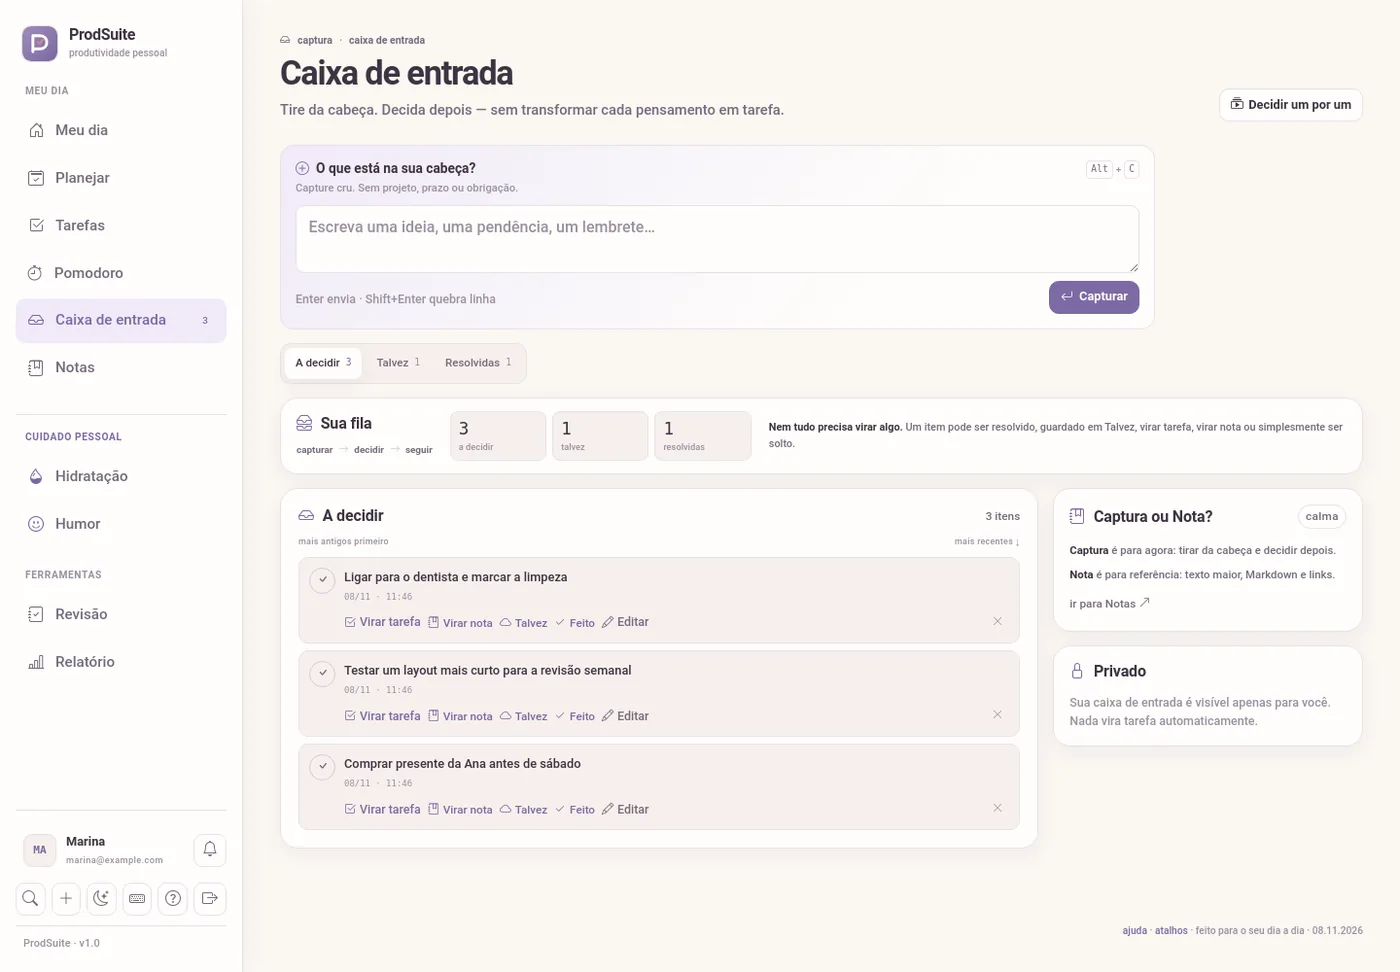
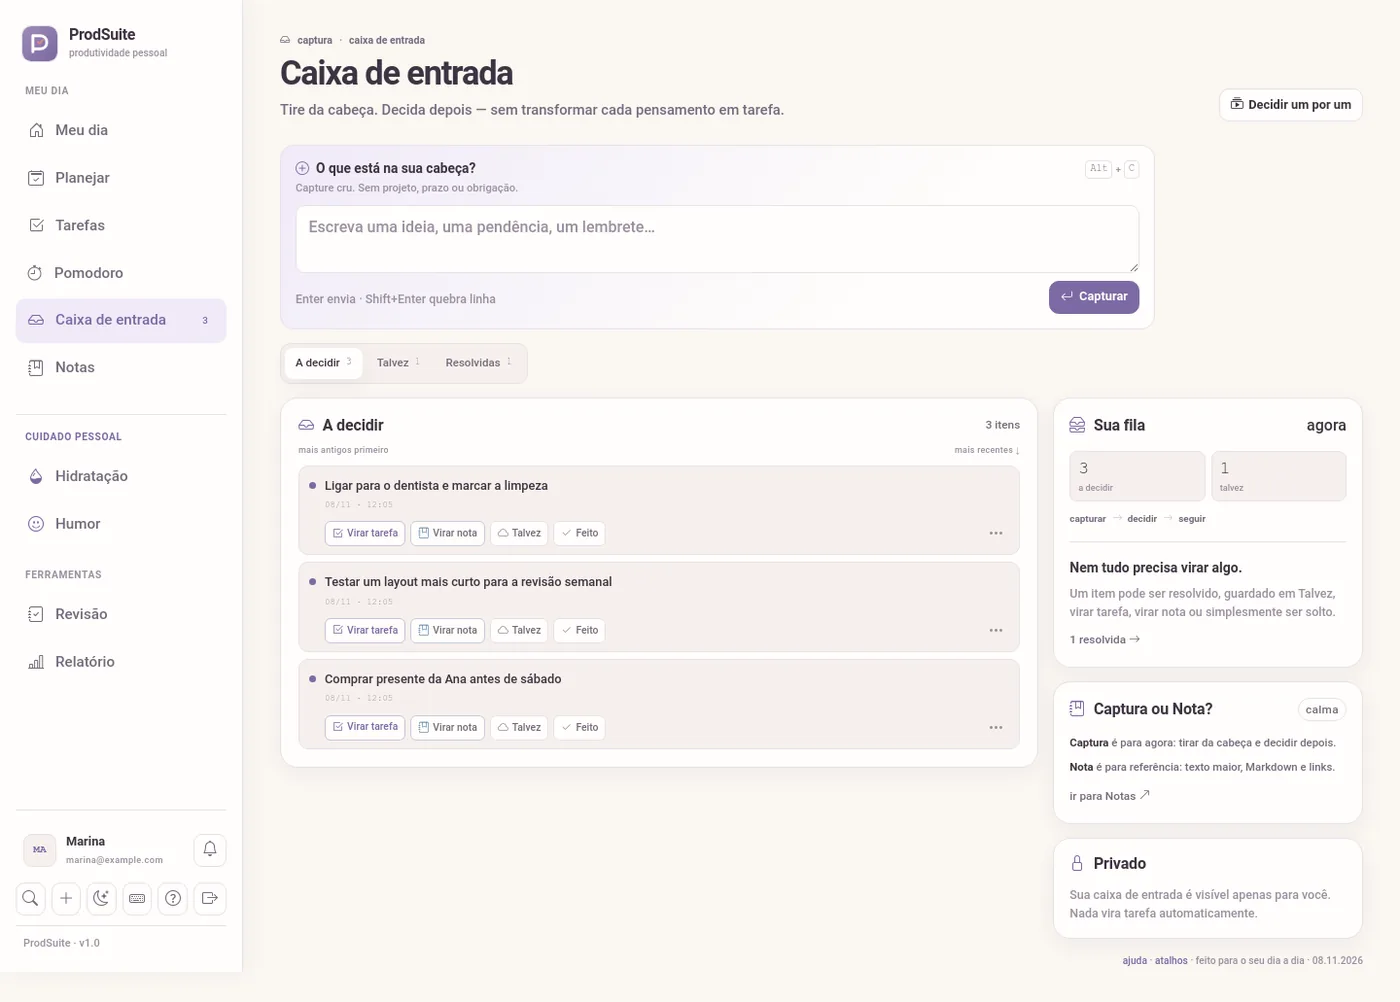
style: alinha caixa de entrada ao conceito 1

diff --git a/templates/scratchpad.html b/templates/scratchpad.html
@@ -46,18 +46,7 @@
   <a class="annotation-tab {{ 'is-active' if view == 'resolvidas' }}" href="{{ url_for('scratchpad.index', ver='resolvidas') }}">Resolvidas <b>{{ counts.done }}</b></a>
 </div>
 
-<section class="bento-card inbox-queue" aria-label="Resumo da fila">
-  <div class="inbox-queue-title">
-    <h2 class="card-title"><i class="bi bi-inboxes"></i> Sua fila</h2>
-    <div class="inbox-flow-guide"><b>capturar</b><i class="bi bi-arrow-right"></i><b>decidir</b><i class="bi bi-arrow-right"></i><b>seguir</b></div>
-  </div>
-  <div class="inbox-stats">
-    <div><strong>{{ counts.open }}</strong><span>a decidir</span></div>
-    <div><strong>{{ counts.someday }}</strong><span>talvez</span></div>
-    <div><strong>{{ counts.done }}</strong><span>resolvidas</span></div>
-  </div>
-  <p class="inbox-queue-copy"><strong>Nem tudo precisa virar algo.</strong> Um item pode ser resolvido, guardado em Talvez, virar tarefa, virar nota ou simplesmente ser solto.</p>
-</section>
+
 
 <div class="annotation-layout">
   <section class="bento-card annotation-flow">
@@ -77,49 +66,45 @@
     <div class="annotation-list inbox-list">
       {% for item in items %}
       <article class="annotation-item inbox-item {{ 'is-done' if item.is_completed }} {{ 'is-someday' if item.is_someday }}" id="item-{{ item.id }}">
-        <form method="post" action="{{ url_for('scratchpad.complete', item_id=item.id) }}" class="annotation-check-form">
-          {{ csrf() }}
-          <button class="annotation-check {{ 'is-done' if item.is_completed }}" type="submit"
-                  aria-label="{{ 'Reabrir item' if item.is_completed else 'Resolver item' }}"
-                  title="{{ 'Reabrir item' if item.is_completed else 'Resolver item' }}">
-            <i class="bi {{ 'bi-check2' if item.is_completed else 'bi-check' }}" aria-hidden="true"></i>
-          </button>
-        </form>
+        <span class="inbox-dot {{ 'is-done' if item.is_completed }}" aria-hidden="true"></span>
         <div class="annotation-main">
           <p class="annotation-text">{{ item.content }}</p>
           <div class="annotation-meta">
             <span>{{ item.created_at|localtime('%d/%m · %H:%M') }}</span>
             {% if item.is_completed %}<span class="annotation-done-label"><i class="bi bi-check2"></i> resolvida</span>{% endif %}
             {% if item.is_someday %}<span class="inbox-state"><i class="bi bi-cloud"></i> talvez</span>{% endif %}
-            {% if not item.is_completed and item.someday_at %}<!-- estado preservado ao reabrir -->{% endif %}
           </div>
-          <div class="annotation-actions">
+          <div class="inbox-triage">
             {% if item.is_completed %}
             <form method="post" action="{{ url_for('scratchpad.complete', item_id=item.id) }}">
               {{ csrf() }}
-              <button class="annotation-action" type="submit"><i class="bi bi-arrow-counterclockwise"></i> Reabrir</button>
+              <button class="inbox-triage-btn" type="submit"><i class="bi bi-arrow-counterclockwise"></i> Reabrir</button>
             </form>
             {% else %}
-            <a class="annotation-action" href="{{ url_for('scratchpad.detail', item_id=item.id) }}"><i class="bi bi-check2-square"></i> Virar tarefa</a>
+            <a class="inbox-triage-btn task" href="{{ url_for('scratchpad.detail', item_id=item.id) }}"><i class="bi bi-check2-square"></i> Virar tarefa</a>
             <form method="post" action="{{ url_for('scratchpad.convert_note', item_id=item.id) }}">
               {{ csrf() }}
-              <button class="annotation-action" type="submit"><i class="bi bi-journal-bookmark"></i> Virar nota</button>
+              <button class="inbox-triage-btn note" type="submit"><i class="bi bi-journal-bookmark"></i> Virar nota</button>
             </form>
             <form method="post" action="{{ url_for('scratchpad.someday', item_id=item.id) }}">
               {{ csrf() }}
-              <button class="annotation-action" type="submit"><i class="bi bi-cloud"></i> {{ 'Voltar para a fila' if item.is_someday else 'Talvez' }}</button>
+              <button class="inbox-triage-btn" type="submit"><i class="bi bi-cloud"></i> {{ 'Voltar' if item.is_someday else 'Talvez' }}</button>
             </form>
             <form method="post" action="{{ url_for('scratchpad.complete', item_id=item.id) }}">
               {{ csrf() }}
-              <button class="annotation-action" type="submit"><i class="bi bi-check2"></i> Feito</button>
+              <button class="inbox-triage-btn" type="submit"><i class="bi bi-check2"></i> Feito</button>
             </form>
             {% endif %}
-            <a class="annotation-action annotation-edit" href="{{ url_for('scratchpad.detail', item_id=item.id) }}"><i class="bi bi-pencil"></i> Editar</a>
-            <form method="post" action="{{ url_for('scratchpad.delete', item_id=item.id) }}" class="annotation-dismiss-form"
-                  data-confirm="Soltar este item? Ele não vai para Tarefas nem para Notas.">
-              {{ csrf() }}
-              <button class="annotation-dismiss" type="submit" aria-label="Soltar item" title="Soltar item"><i class="bi bi-x-lg"></i></button>
-            </form>
+            <details class="inbox-more">
+              <summary aria-label="Mais ações do item" title="Mais ações"><i class="bi bi-three-dots"></i></summary>
+              <div class="inbox-more-menu">
+                <a href="{{ url_for('scratchpad.detail', item_id=item.id) }}"><i class="bi bi-pencil"></i> Editar</a>
+                <form method="post" action="{{ url_for('scratchpad.delete', item_id=item.id) }}" data-confirm="Soltar este item? Ele não vai para Tarefas nem para Notas.">
+                  {{ csrf() }}
+                  <button type="submit"><i class="bi bi-x-lg"></i> Soltar</button>
+                </form>
+              </div>
+            </details>
           </div>
         </div>
       </article>
@@ -139,6 +124,19 @@
   </section>
 
   <aside class="annotation-side inbox-side">
+    <section class="bento-card pad inbox-queue-side">
+      <div class="card-head"><h2 class="card-title"><i class="bi bi-inboxes"></i> Sua fila</h2><span class="link">agora</span></div>
+      <div class="inbox-stats inbox-stats-two">
+        <div><strong>{{ counts.open }}</strong><span>a decidir</span></div>
+        <div><strong>{{ counts.someday }}</strong><span>talvez</span></div>
+      </div>
+      <div class="inbox-flow-guide"><b>capturar</b><i class="bi bi-arrow-right"></i><b>decidir</b><i class="bi bi-arrow-right"></i><b>seguir</b></div>
+      <div class="divider"></div>
+      <div class="small" style="color:var(--text);font-weight:650">Nem tudo precisa virar algo.</div>
+      <div class="form-hint" style="line-height:1.55;margin-top:5px">Um item pode ser resolvido, guardado em Talvez, virar tarefa, virar nota ou simplesmente ser solto.</div>
+      {% if counts.done %}<a class="card-link" href="{{ url_for('scratchpad.index', ver='resolvidas') }}">{{ counts.done }} resolvida{{ 's' if counts.done != 1 }} <i class="bi bi-arrow-right"></i></a>{% endif %}
+    </section>
+
     <section class="bento-card pad annotation-distinction">
       <div class="card-head"><h2 class="card-title"><i class="bi bi-journal-bookmark"></i> Captura ou Nota?</h2><span class="chip">calma</span></div>
       <p><strong>Captura</strong> é para agora: tirar da cabeça e decidir depois.</p>

diff --git a/static/css/theme.css b/static/css/theme.css
@@ -10789,64 +10789,162 @@ button.annotation-action:hover {
   margin: 0;
 }
 
-/* Resumo da fila acima da lista. */
-.inbox-queue {
+/* Conceito 1: triagem em pills e fila como card lateral. */
+.inbox-dot {
+  width: 7px;
+  height: 7px;
+  flex: 0 0 7px;
+  margin-top: 6px;
+  border-radius: 50%;
+  background: var(--emerald);
+}
+
+.inbox-dot.is-done {
+  background: var(--green);
+}
+
+.inbox-triage {
   display: flex;
+  flex-wrap: wrap;
   align-items: center;
-  gap: 18px;
-  margin-bottom: 14px;
-  padding: 13px 16px;
+  gap: 5px;
+  margin-top: 8px;
 }
 
-.inbox-queue-title {
-  flex: 0 0 auto;
-  min-width: 128px;
-}
-
-.inbox-queue-title .card-title {
-  margin: 0 0 5px;
-}
-
-.inbox-queue .inbox-stats {
-  flex: 0 1 310px;
-}
-
-.inbox-queue-copy {
-  flex: 1 1 260px;
+.inbox-triage form {
   margin: 0;
+}
+
+.inbox-triage-btn {
+  display: inline-flex;
+  min-height: 26px;
+  align-items: center;
+  gap: 4px;
+  padding: 3px 7px;
+  border: 1px solid var(--line);
+  border-radius: 6px;
+  background: var(--surface);
   color: var(--muted);
-  font-size: .68rem;
-  line-height: 1.5;
+  font: inherit;
+  font-size: .65rem;
+  line-height: 1.2;
+  text-decoration: none;
+  cursor: pointer;
 }
 
-.inbox-queue-copy strong {
+.inbox-triage-btn i {
+  color: var(--dim);
+  font-size: .7rem;
+}
+
+.inbox-triage-btn:hover,
+.inbox-triage-btn:focus-visible {
+  border-color: var(--line-strong);
   color: var(--text);
-  font-weight: 650;
 }
 
-@media (max-width: 900px) {
-  .inbox-queue {
-    flex-wrap: wrap;
-    gap: 10px 16px;
-  }
+.inbox-triage-btn.task {
+  border-color: color-mix(in srgb, var(--emerald) 26%, var(--line));
+  color: var(--emerald);
+}
 
-  .inbox-queue-title {
-    display: flex;
-    flex: 1 1 100%;
-    align-items: center;
-    justify-content: space-between;
-    gap: 10px;
-  }
+.inbox-triage-btn.task i {
+  color: var(--emerald);
+}
 
-  .inbox-queue-title .card-title {
-    margin: 0;
-  }
+.inbox-triage-btn.note {
+  border-color: color-mix(in srgb, var(--cyan) 26%, var(--line));
+}
 
-  .inbox-queue .inbox-stats {
-    flex: 1 1 220px;
-  }
+.inbox-triage-btn.note i {
+  color: var(--cyan);
+}
 
-  .inbox-queue-copy {
-    flex: 1 1 100%;
+.inbox-more {
+  position: relative;
+  margin-left: auto;
+}
+
+.inbox-more summary {
+  display: grid;
+  width: 26px;
+  height: 26px;
+  place-items: center;
+  border: 1px solid transparent;
+  border-radius: 6px;
+  color: var(--dim);
+  cursor: pointer;
+  list-style: none;
+}
+
+.inbox-more summary::-webkit-details-marker {
+  display: none;
+}
+
+.inbox-more summary:hover,
+.inbox-more[open] summary {
+  border-color: var(--line);
+  background: var(--surface);
+  color: var(--text);
+}
+
+.inbox-more-menu {
+  position: absolute;
+  right: 0;
+  z-index: 5;
+  min-width: 122px;
+  padding: 5px;
+  border: 1px solid var(--line);
+  border-radius: 8px;
+  background: var(--surface);
+  box-shadow: var(--shadow-float);
+}
+
+.inbox-more-menu a,
+.inbox-more-menu button {
+  display: flex;
+  width: 100%;
+  align-items: center;
+  gap: 6px;
+  padding: 7px 8px;
+  border: 0;
+  border-radius: 5px;
+  background: transparent;
+  color: var(--muted);
+  font: inherit;
+  font-size: .68rem;
+  text-align: left;
+  text-decoration: none;
+  cursor: pointer;
+}
+
+.inbox-more-menu a:hover,
+.inbox-more-menu button:hover {
+  background: var(--surface-soft);
+  color: var(--text);
+}
+
+.inbox-more-menu form {
+  margin: 0;
+}
+
+.inbox-queue-side .inbox-stats {
+  grid-template-columns: 1fr 1fr;
+}
+
+.inbox-queue-side .inbox-flow-guide {
+  margin-top: 9px;
+}
+
+.inbox-queue-side .card-link {
+  display: inline-flex;
+  align-items: center;
+  gap: 3px;
+  margin-top: 9px;
+}
+
+@media (max-width: 991px) {
+  .inbox-queue-side {
+    order: -1;
   }
 }

diff --git a/static/sw.js b/static/sw.js
@@ -10,7 +10,7 @@
  *
  * Ao alterar assets, incremente CACHE_VERSION para promover a limpeza.
  */
-const CACHE_VERSION = "v3.8.1";
+const CACHE_VERSION = "v3.8.2";
 const PRECACHE = `prodsuite-precache-${CACHE_VERSION}`;
 const RUNTIME = `prodsuite-runtime-${CACHE_VERSION}`;
 const OFFLINE_URL = "/offline";
